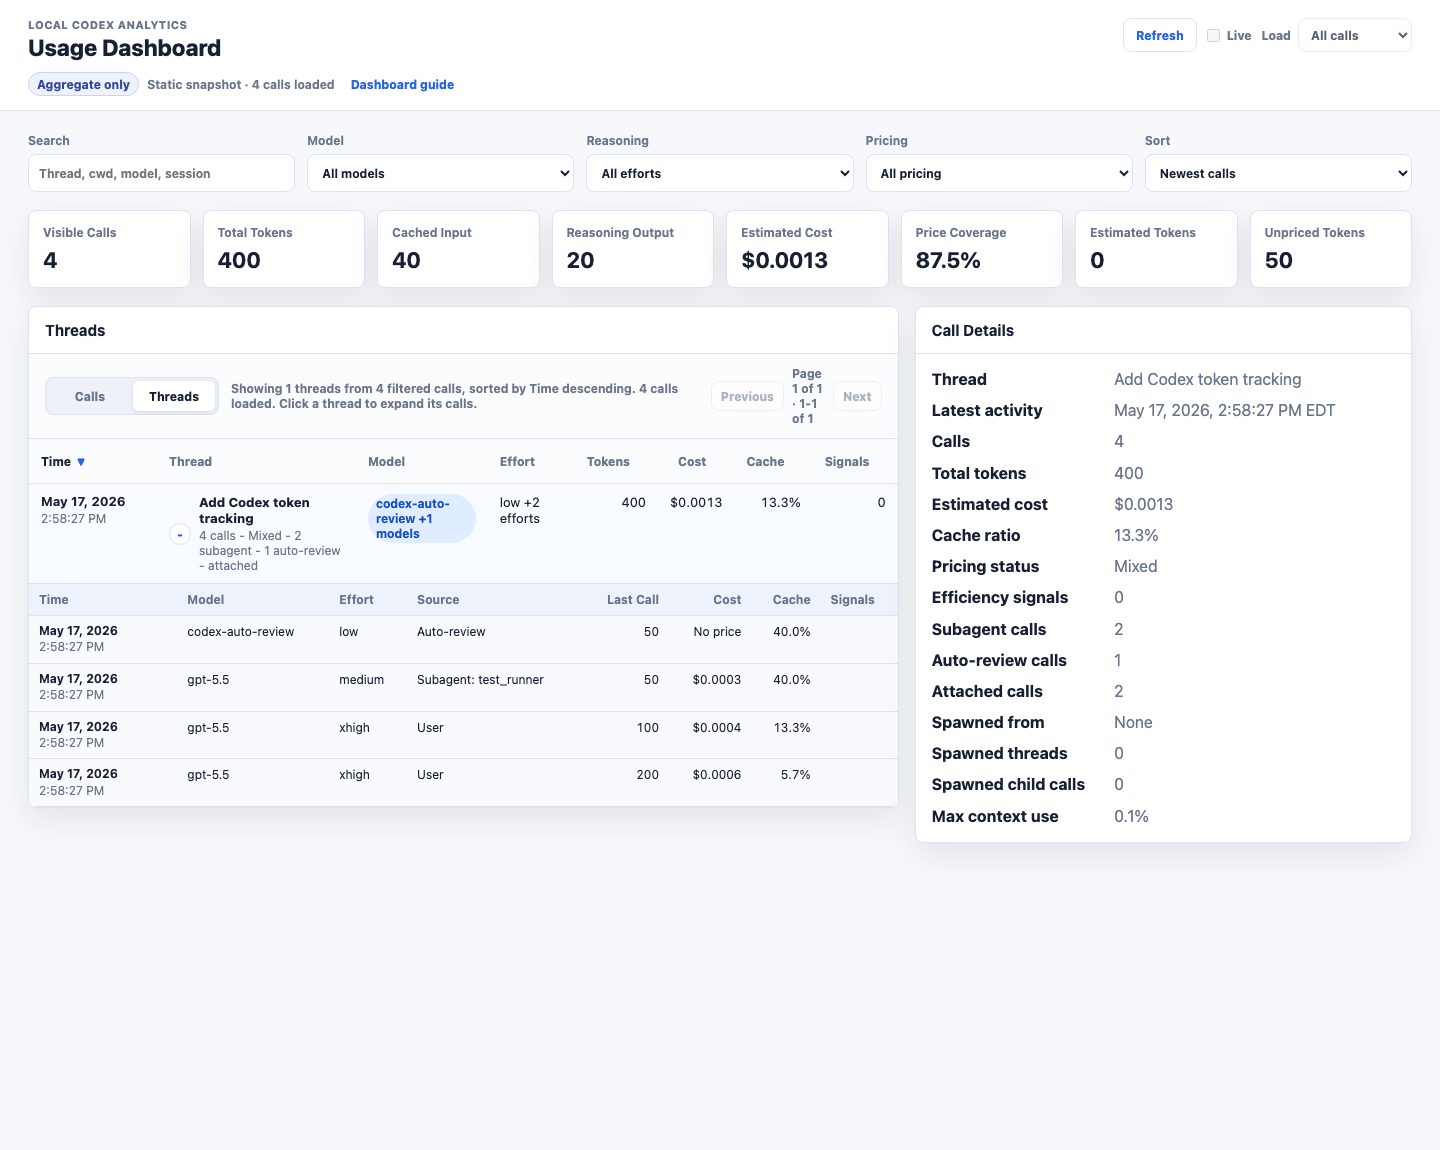
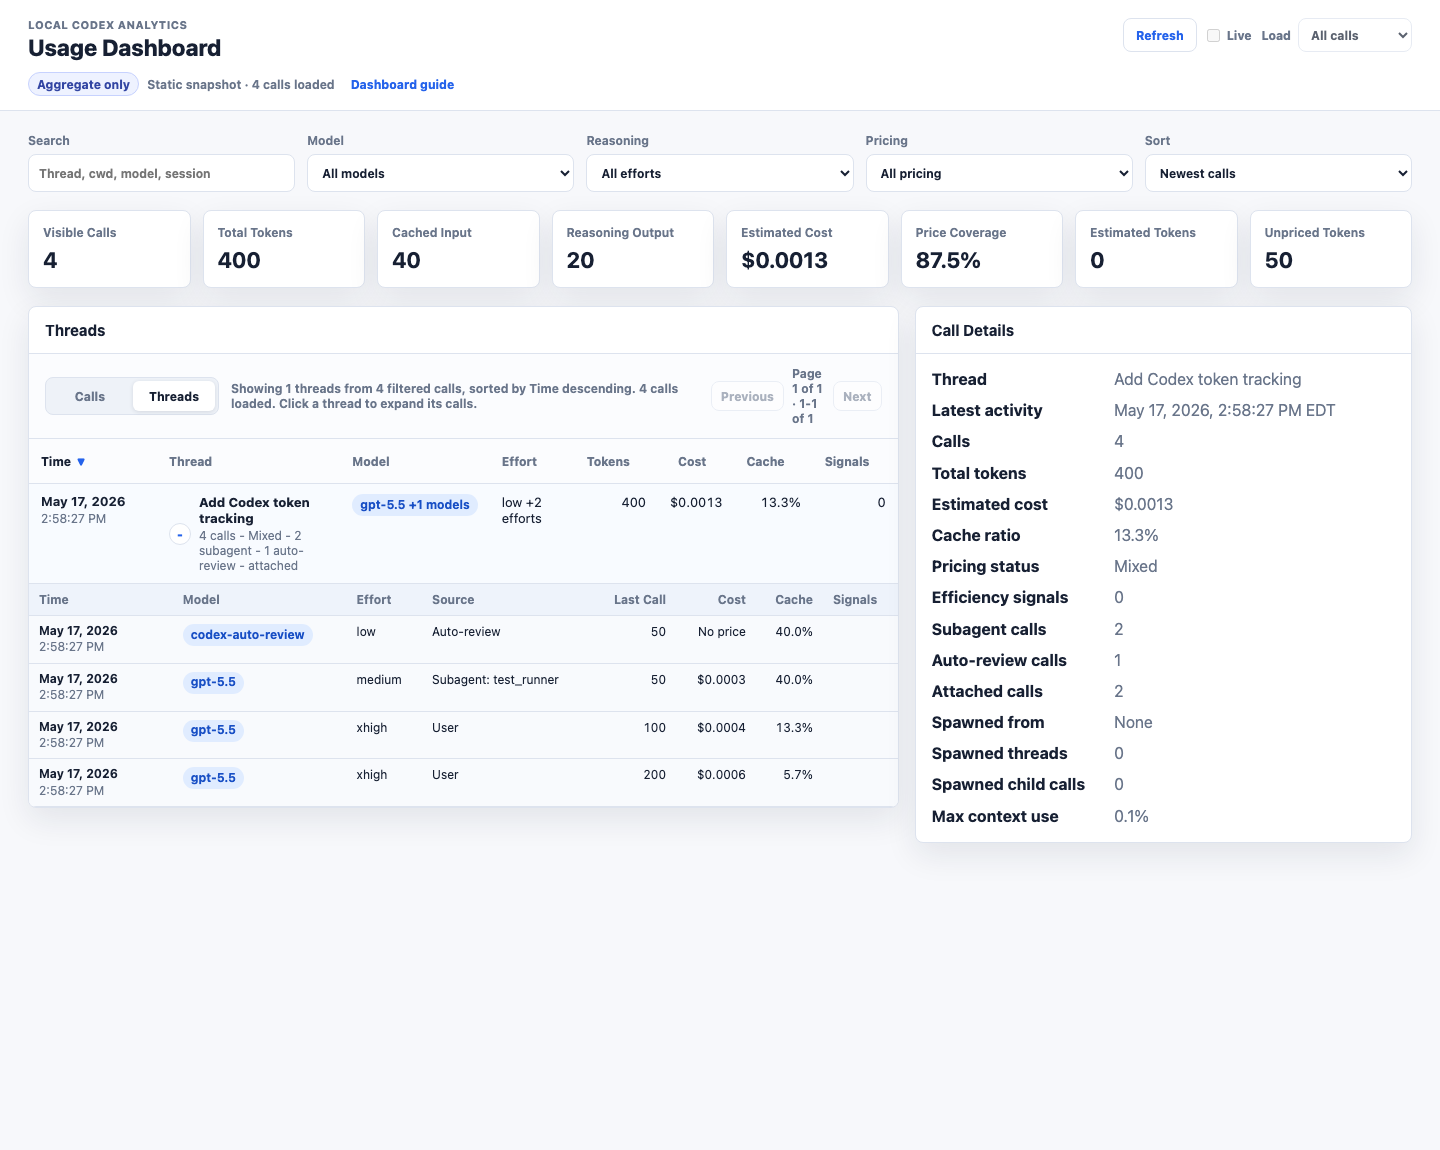
feat: refine thread model labels

diff --git a/src/codex_usage_tracker/dashboard.py b/src/codex_usage_tracker/dashboard.py
@@ -382,6 +382,8 @@ def _html(payload: str) -> str:
     .pill {{
       display: inline-flex;
       align-items: center;
+      justify-content: center;
+      max-width: 100%;
       min-height: 22px;
       padding: 2px 8px;
       border-radius: 999px;
@@ -389,6 +391,14 @@ def _html(payload: str) -> str:
       color: #184fc5;
       font-weight: 680;
       font-size: 12px;
+      line-height: 1.08;
+      white-space: nowrap;
+    }}
+    .model-pill {{
+      width: max-content;
+      max-width: min(132px, 100%);
+      min-width: 0;
+      overflow: hidden;
     }}
     .flags {{
       display: flex;
@@ -546,6 +556,33 @@ def _html(payload: str) -> str:
       color: var(--ink);
       font: 12px/1.45 ui-monospace, SFMono-Regular, Menlo, Monaco, Consolas, "Liberation Mono", monospace;
     }}
+    .to-top {{
+      position: fixed;
+      right: 18px;
+      bottom: 18px;
+      z-index: 4;
+      min-height: 38px;
+      padding: 8px 12px;
+      border: 1px solid #c7d2fe;
+      border-radius: 999px;
+      background: var(--panel);
+      color: var(--blue);
+      box-shadow: var(--shadow);
+      font-size: 12px;
+      font-weight: 780;
+      cursor: pointer;
+      opacity: 0;
+      pointer-events: none;
+      transform: translateY(10px);
+      transition: opacity 160ms ease, transform 160ms ease;
+    }}
+    .to-top[data-visible="true"] {{
+      opacity: 1;
+      pointer-events: auto;
+      transform: translateY(0);
+    }}
+    .to-top:hover {{ background: #eff6ff; }}
+    .to-top:active {{ transform: translateY(1px); }}
     @media (max-width: 980px) {{
       .filters, .cards, .grid {{ grid-template-columns: 1fr; }}
       main, header {{ padding-left: 16px; padding-right: 16px; }}
@@ -643,6 +680,7 @@ def _html(payload: str) -> str:
       </section>
     </div>
   </main>
+  <button id="toTop" class="to-top" type="button" aria-label="Back to top">Top</button>
   <script id="usage-data" type="application/json">{payload}</script>
   <script>
     const initialPayload = JSON.parse(document.getElementById('usage-data').textContent);
@@ -670,6 +708,7 @@ def _html(payload: str) -> str:
     const prevPageEl = document.getElementById('prevPage');
     const nextPageEl = document.getElementById('nextPage');
     const pageStatusEl = document.getElementById('pageStatus');
+    const toTopEl = document.getElementById('toTop');
     const number = new Intl.NumberFormat();
     const tableDateFormat = new Intl.DateTimeFormat([], {{ month: 'short', day: 'numeric', year: 'numeric' }});
     const tableTimeFormat = new Intl.DateTimeFormat([], {{ hour: 'numeric', minute: '2-digit', second: '2-digit' }});
@@ -1083,6 +1122,27 @@ def _html(payload: str) -> str:
       if (unique.length === 1) return unique[0];
       return `${{unique[0]}} +${{unique.length - 1}} ${{fallback.toLowerCase()}}`;
     }}
+    function threadModelSummary(calls) {{
+      const models = [...new Set(calls.map(row => row.model).filter(Boolean))].sort();
+      if (!models.length) return 'Unknown';
+      if (models.length === 1) return models[0];
+      const nonReviewModels = models.filter(model => model !== 'codex-auto-review');
+      const primary = nonReviewModels.length ? nonReviewModels[0] : models[0];
+      return `${{primary}} +${{models.length - 1}} models`;
+    }}
+    function fitModelPills() {{
+      document.querySelectorAll('.model-pill').forEach(pill => {{
+        pill.style.fontSize = '';
+        const maxSize = 12;
+        const minSize = 9;
+        let size = maxSize;
+        while (size > minSize && pill.scrollWidth > pill.clientWidth) {{
+          size -= 0.5;
+          pill.style.fontSize = `${{size}}px`;
+        }}
+        pill.title = pill.dataset.fullLabel || pill.textContent || '';
+      }});
+    }}
     function dominantParentThread(calls, ownLabel) {{
       const counts = new Map();
       for (const row of calls) {{
@@ -1166,7 +1226,7 @@ def _html(payload: str) -> str:
         const subagentCount = calls.filter(isSubagent).length;
         const autoReviewCount = calls.filter(isAutoReview).length;
         const attachedCount = calls.filter(row => rowAttachment(row).relation !== 'direct' && rowAttachment(row).relation !== 'session').length;
-        const modelSummary = compactListSummary(calls.map(row => row.model), 'models');
+        const modelSummary = threadModelSummary(calls);
         const effortSummary = compactListSummary(calls.map(row => row.effort), 'efforts');
         const parentThreadLabel = dominantParentThread(calls, group.label);
         return {{
@@ -1237,6 +1297,7 @@ def _html(payload: str) -> str:
       }} else {{
         renderCalls(rows);
       }}
+      fitModelPills();
     }}
     function renderCalls(rows) {{
       const page = paginate(rows);
@@ -1253,7 +1314,7 @@ def _html(payload: str) -> str:
         tr.innerHTML = `
           <td>${{renderTimeCell(row.event_timestamp)}}</td>
           <td title="${{escapeHtml(short(row.session_id))}}">${{escapeHtml(truncate(rowThreadLabel(row)))}}</td>
-          <td><span class="pill">${{escapeHtml(short(row.model))}}</span></td>
+          <td><span class="pill model-pill" data-full-label="${{escapeHtml(short(row.model))}}">${{escapeHtml(short(row.model))}}</span></td>
           <td>${{escapeHtml(short(row.effort))}}</td>
           <td class="num">${{number.format(row.total_tokens || 0)}}</td>
           <td class="num">${{escapeHtml(row.pricing_estimated ? `${{money(row.estimated_cost_usd)}}*` : money(row.estimated_cost_usd))}}</td>
@@ -1321,7 +1382,7 @@ def _html(payload: str) -> str:
               </span>
             </div>
           </td>
-          <td><span class="pill">${{escapeHtml(truncate(group.modelSummary, 28))}}</span></td>
+          <td><span class="pill model-pill" data-full-label="${{escapeHtml(short(group.modelSummary))}}">${{escapeHtml(short(group.modelSummary))}}</span></td>
           <td>${{escapeHtml(truncate(group.effortSummary, 28))}}</td>
           <td class="num">${{number.format(group.totalTokens)}}</td>
           <td class="num">${{pricingConfigured ? money(group.estimatedCost) : 'Not configured'}}</td>
@@ -1365,7 +1426,7 @@ def _html(payload: str) -> str:
         return `
           <tr class="thread-call-row" tabindex="0" role="button" data-record-id="${{escapeHtml(row.record_id || '')}}">
             <td>${{renderTimeCell(row.event_timestamp)}}</td>
-            <td>${{escapeHtml(short(row.model))}}</td>
+            <td><span class="pill model-pill" data-full-label="${{escapeHtml(short(row.model))}}">${{escapeHtml(short(row.model))}}</span></td>
             <td>${{escapeHtml(short(row.effort))}}</td>
             <td>${{escapeHtml(sourceLabel(row))}}</td>
             <td class="num">${{number.format(row.total_tokens || 0)}}</td>
@@ -1525,6 +1586,9 @@ def _html(payload: str) -> str:
     function updateLiveStatus(message) {{
       liveStatusEl.textContent = message;
     }}
+    function updateToTopVisibility() {{
+      toTopEl.dataset.visible = window.scrollY > 320 ? 'true' : 'false';
+    }}
     function applyDashboardPayload(nextPayload) {{
       data = payloadRows(nextPayload);
       pricingConfigured = Boolean(nextPayload.pricing_configured);
@@ -1600,6 +1664,8 @@ def _html(payload: str) -> str:
     document.addEventListener('visibilitychange', () => {{
       if (document.visibilityState === 'visible' && autoRefreshEl.checked) refreshDashboardData(false);
     }});
+    window.addEventListener('scroll', updateToTopVisibility, {{ passive: true }});
+    toTopEl.addEventListener('click', () => window.scrollTo({{ top: 0, behavior: 'smooth' }}));
     prevPageEl.addEventListener('click', () => {{
       currentPage = Math.max(1, currentPage - 1);
       render();
@@ -1649,6 +1715,7 @@ def _html(payload: str) -> str:
       updateLiveStatus(`Live · polls every ${{liveRefreshIntervalMs / 1000}}s · ${{loadedRowsDescription()}}`);
       scheduleAutoRefresh();
     }}
+    updateToTopVisibility();
     render();
   </script>
 </body>

diff --git a/tests/test_store_dashboard_mcp.py b/tests/test_store_dashboard_mcp.py
@@ -101,6 +101,10 @@ def test_dashboard_and_csv_are_aggregate_only(tmp_path: Path) -> None:
     assert "detail-section" in dashboard
     assert "time-cell" in dashboard
     assert "formatTimestamp" in dashboard
+    assert "threadModelSummary" in dashboard
+    assert "model-pill" in dashboard
+    assert "Back to top" in dashboard
+    assert "updateToTopVisibility" in dashboard
     assert "Live ·" in dashboard
     assert "loadLimit" in dashboard
     assert "pager" in dashboard

diff --git a/README.md b/README.md
@@ -75,7 +75,7 @@ codex-usage-tracker open-dashboard
 
 For a screenshot-driven walkthrough of the dashboard, see [`docs/dashboard-guide.md`](docs/dashboard-guide.md).
 
-The dashboard opens in the flat Calls view sorted newest-first. Use the Calls/Threads toggle to group filtered usage by thread, with the most recently active thread at the top by default. In the default newest-first Threads view, spawned child threads are shown directly under their parent thread when both are visible. Parent rows show spawned-thread counts, and child rows show `spawned from ...`. Click a column header such as Time, Thread, Model, Effort, Tokens, Cost, Cache, or Signals to sort that view; clicking the same header toggles direction. Times render in your browser's local date/time format while sorting still uses the logged timestamps. Click a thread row to expand its calls in chronological order. Spawned subagents with a logged parent session are latched to the parent thread from `session_index.jsonl`, and the dashboard falls back to an in-database parent-session lookup when needed. Guardian `codex-auto-review` sessions do not currently log a parent session id, so the dashboard attaches them to the nearest named thread with the same cwd and marks that attachment as inferred.
+The dashboard opens in the flat Calls view sorted newest-first. Use the Calls/Threads toggle to group filtered usage by thread, with the most recently active thread at the top by default. In the default newest-first Threads view, spawned child threads are shown directly under their parent thread when both are visible. Parent rows show spawned-thread counts, and child rows show `spawned from ...`. Click a column header such as Time, Thread, Model, Effort, Tokens, Cost, Cache, or Signals to sort that view; clicking the same header toggles direction. Times render in your browser's local date/time format while sorting still uses the logged timestamps. Mixed thread model summaries prefer non-review models, so `codex-auto-review` is shown as the thread model only for review-only threads. Click a thread row to expand its calls in chronological order. Spawned subagents with a logged parent session are latched to the parent thread from `session_index.jsonl`, and the dashboard falls back to an in-database parent-session lookup when needed. Guardian `codex-auto-review` sessions do not currently log a parent session id, so the dashboard attaches them to the nearest named thread with the same cwd and marks that attachment as inferred.
 
 Serve the dashboard with live aggregate refresh and lazy raw-context loading:
 

diff --git a/docs/dashboard-guide.md b/docs/dashboard-guide.md
@@ -36,6 +36,7 @@ The dashboard opens in `Calls` view. This is the most direct way to inspect indi
 - Time values are shown in your browser's local date/time format while sorting still uses the logged timestamp.
 - Click a column header like `Time`, `Thread`, `Tokens`, `Cost`, or `Cache` to sort. Click the same header again to reverse the direction.
 - Hover or click a row to pin its aggregate fields in `Call Details`; on desktop, the details panel stays visible as you scroll.
+- After you scroll down, the bottom-right `Top` button returns to the top of the dashboard.
 
 Useful interpretation notes:
 
@@ -52,6 +53,7 @@ Use `Threads` view when you want to understand a work session as a group instead
 
 - Each thread row groups the filtered model calls by thread name, falling back to session id when no name is available.
 - Thread rows show latest activity, call count, model mix, effort mix, total tokens, estimated cost, cache ratio, and signal count.
+- Mixed model summaries prefer the primary non-review model; `codex-auto-review` appears as the thread model only for review-only threads.
 - Click a thread row to expand or collapse its calls. Multiple thread rows can stay open.
 - Expanded calls are ordered oldest to newest by event timestamp, then cumulative token count.
 - Subagents with logged parent session ids are shown under the parent thread. Auto-review sessions without explicit parent ids may be attached by cwd and nearby activity and are marked as attached or inferred in the details.

diff --git a/CHANGELOG.md b/CHANGELOG.md
@@ -10,6 +10,7 @@
 - Harden local dashboard server responses with browser security headers and safer IPv6 localhost URLs.
 - Tighten the dashboard header copy, add click/keyboard row inspection, and keep detailed usage guidance out of the primary UI.
 - Keep call details sticky while scrolling and render timestamps as local human-readable date/time values.
+- Prefer non-review models in mixed thread model summaries, add fit-to-width model labels, and add a scroll-aware `Top` button.
 - Add a screenshot-driven dashboard guide built from synthetic aggregate fixture data.
 - Preserve requested virtualenv Python paths during plugin install instead of resolving through interpreter symlinks.
 - Keep generated dashboards, SQLite databases, CSV exports, and raw Codex logs out of git.